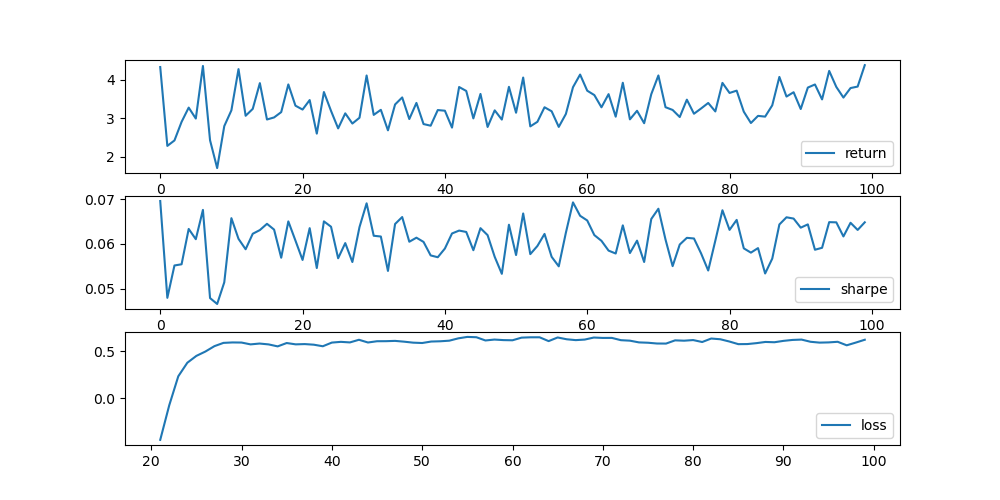
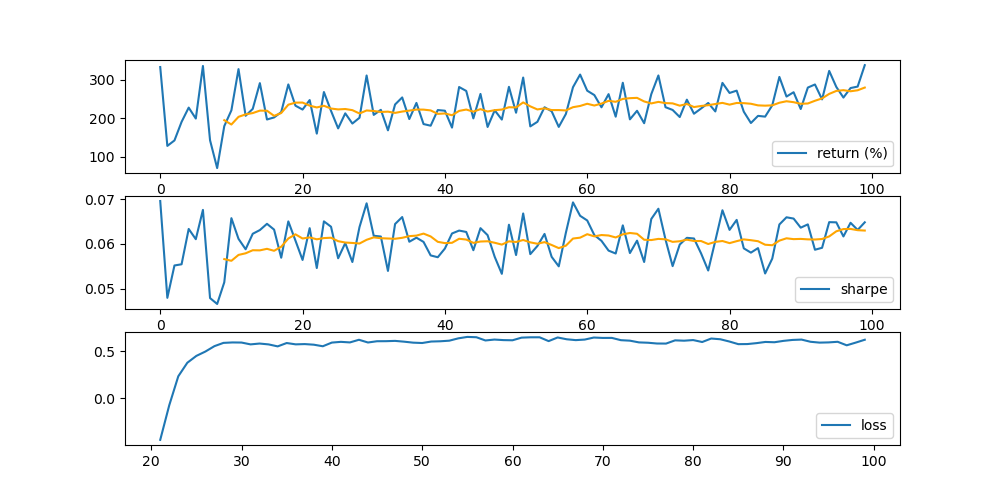
2024-01-28

diff --git a/python/build.py b/python/build.py
@@ -1,22 +1,38 @@
 #!/usr/bin/env python3
 
+import numpy as np
 import pandas as pd
 import matplotlib.pyplot as plt
 
-log = pd.read_csv("./res/build")
+WINDOW = 10
 
-plt.figure(figsize=(10,5))
+def mavg(x, w):
+    return np.convolve(x, np.ones(w), "valid") / w
 
-plt.subplot(3, 1, 1)
-plt.plot(log["return"], label="return")
-plt.legend()
+if __name__ == "__main__":
+    log = pd.read_csv("./res/build")
+    log["return"] = (log["return"] - 1.00) * 100
 
-plt.subplot(3, 1, 2)
-plt.plot(log["sharpe"], label="sharpe")
-plt.legend()
+    plt.figure(figsize=(10,5))
 
-plt.subplot(3, 1, 3)
-plt.plot(log["loss"], label="loss")
-plt.legend()
+    plt.subplot(3, 1, 1)
+    plt.plot(log["return"], label="return (%)")
+    return_mavg = mavg(log["return"], WINDOW)
+    for i in range(WINDOW-1):
+        return_mavg = np.insert(return_mavg, 0, np.nan)
+    plt.plot(return_mavg, color="orange")
+    plt.legend()
 
-plt.savefig("./res/build.png")
+    plt.subplot(3, 1, 2)
+    plt.plot(log["sharpe"], label="sharpe")
+    sharpe_mavg = mavg(log["sharpe"], WINDOW)
+    for i in range(WINDOW-1):
+        sharpe_mavg = np.insert(sharpe_mavg, 0, np.nan)
+    plt.plot(sharpe_mavg, color="orange")
+    plt.legend()
+
+    plt.subplot(3, 1, 3)
+    plt.plot(log["loss"], label="loss")
+    plt.legend()
+
+    plt.savefig("./res/build.png")
